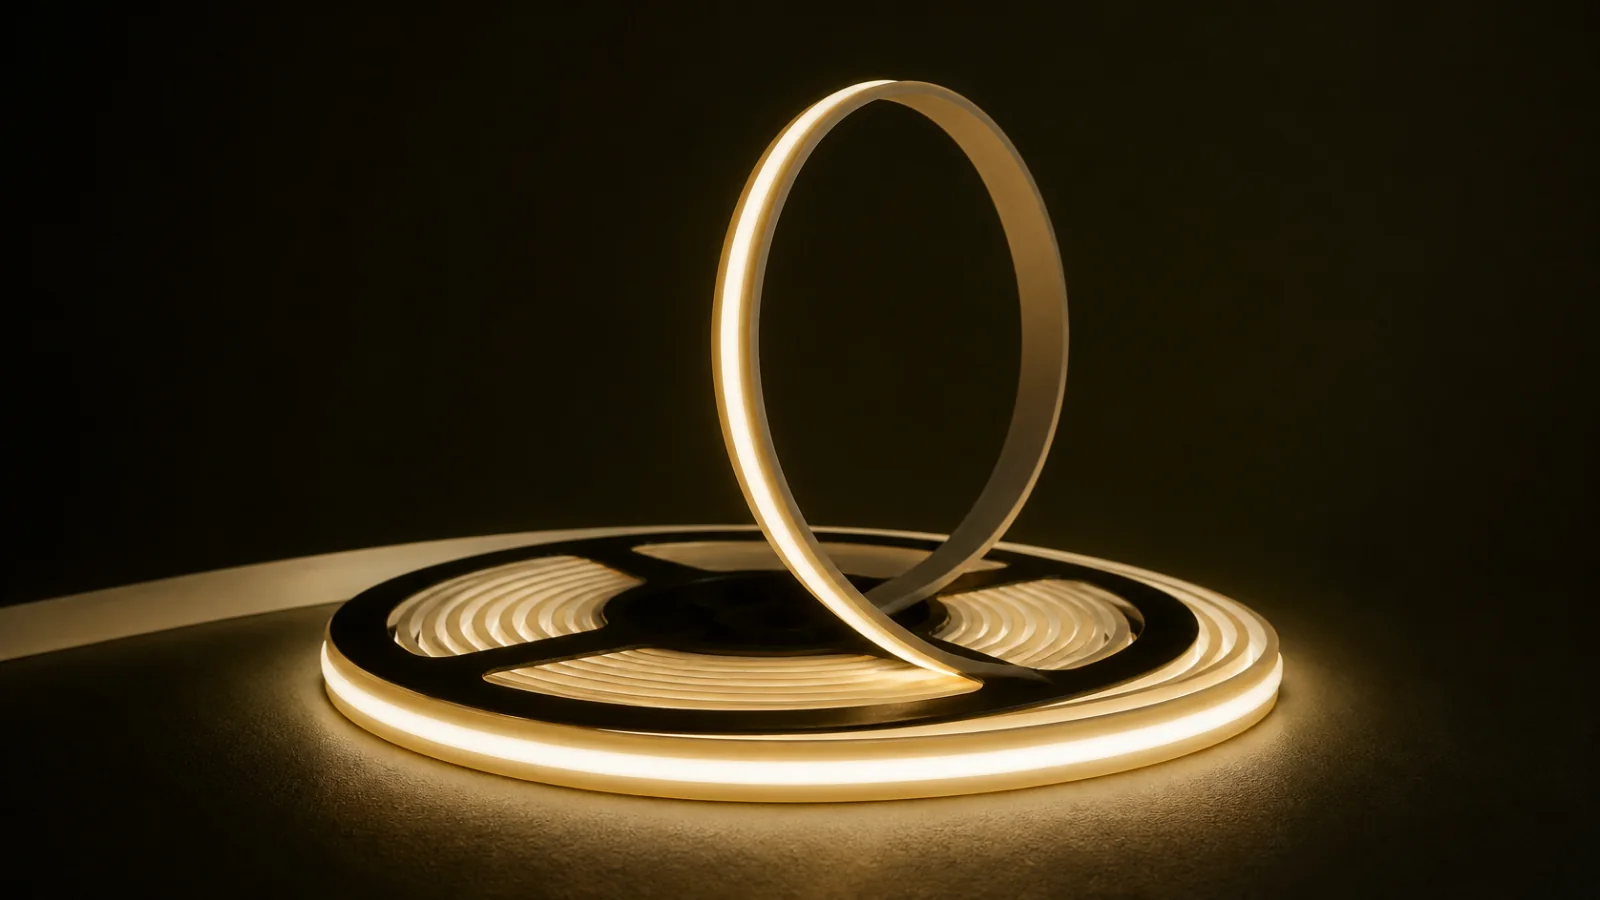
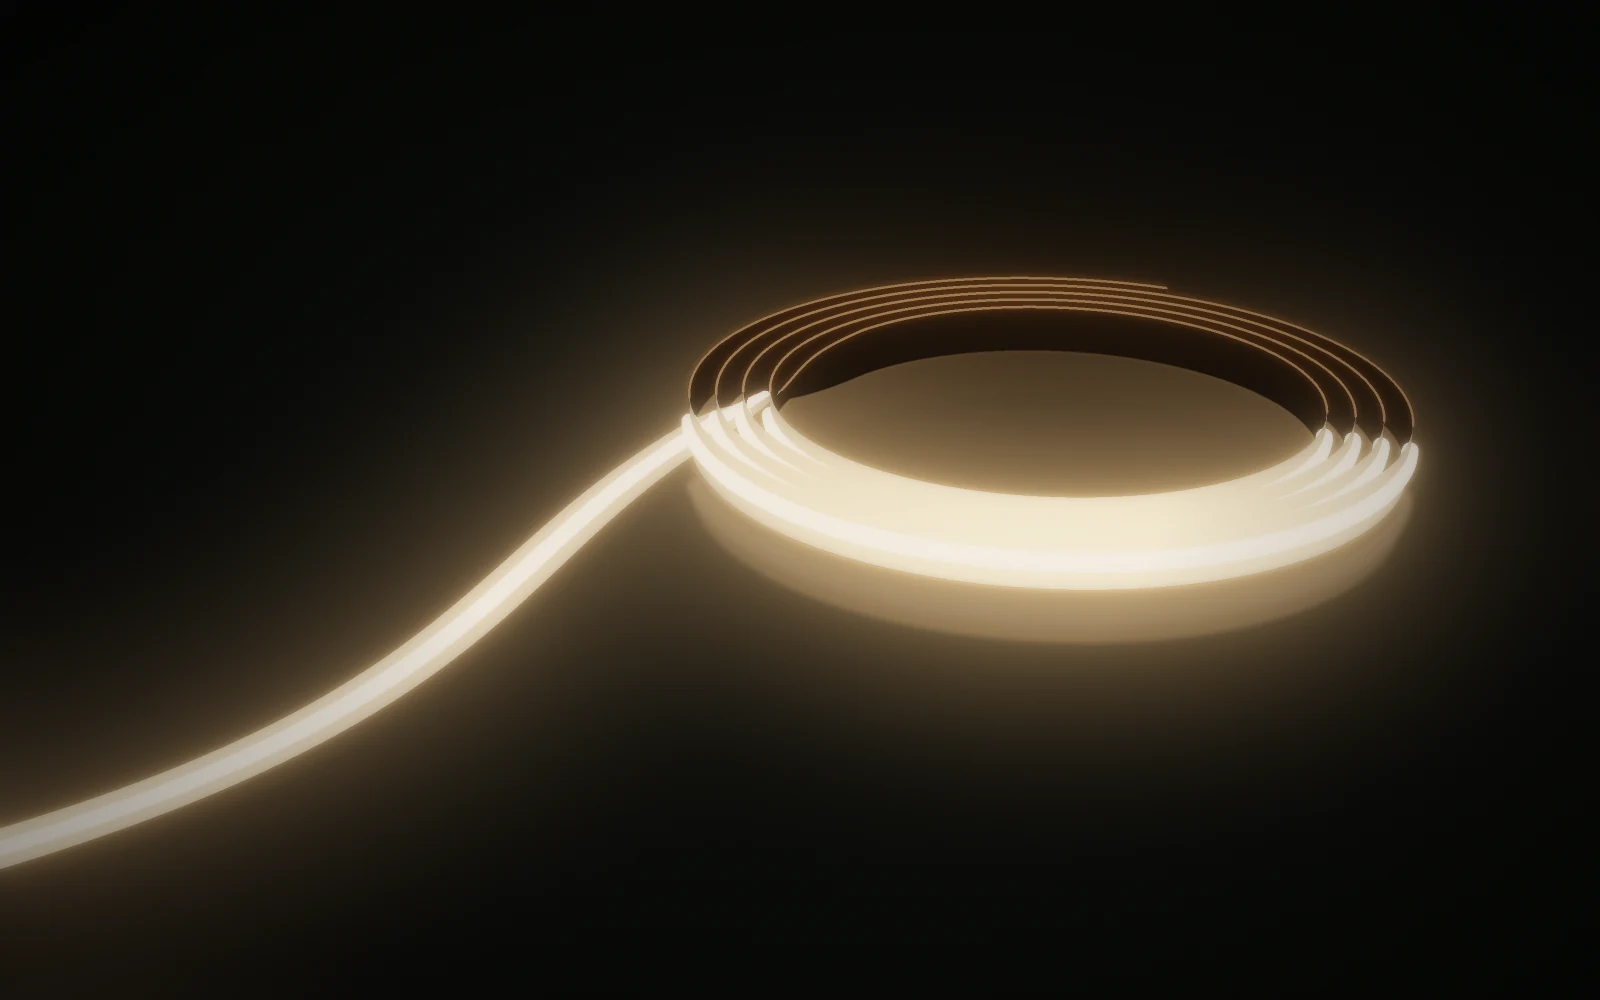
feat: new LED kit image, cleaner shop header, reorder services
Replaces the low-res LED photo with a clean rendered image, removes the
empty glow box in the shop section, and reorders What we do: Lighting,
Security, Electrical & KNX panels, Energy, Smart home systems, Home
Assistant.

Claude-Session: https://claude.ai/code/session_01SfgUpcikzdqsqbzj3Eg53A

diff --git a/style.css b/style.css
@@ -282,6 +282,11 @@ body.is-ready .hero .badge{transform:translateY(-60%)}
 .menu-open .shop-btn{visibility:hidden}
 .shop{position:relative;background:var(--deep);color:var(--text);padding:clamp(80px,10vw,140px) 0 clamp(70px,8vw,120px);overflow:hidden}
 .shop__in{display:block}
+.shop__copy{display:grid;grid-template-columns:minmax(0,1.1fr) minmax(0,1fr);column-gap:clamp(28px,5vw,80px);align-items:end}
+.shop__copy .shop__tag{grid-column:1/-1}
+.shop__copy .shop__title{grid-column:1;grid-row:2/4}
+.shop__copy .shop__lead{grid-column:2;margin-top:0}
+.shop__copy .shop__actions{grid-column:2}
 .shop__tag{color:var(--ember);margin:0 0 22px;display:flex;align-items:center;gap:10px}
 .shop__tag i{width:7px;height:7px;border-radius:50%;background:var(--ember);animation:blink 1.2s steps(2) infinite}
 .shop__title{font-size:clamp(84px,12vw,210px);margin:0}
@@ -289,6 +294,17 @@ body.is-ready .hero .badge{transform:translateY(-60%)}
 .shop__lead{max-width:470px;margin:26px 0 30px;color:var(--muted);font-size:clamp(16px,1.2vw,18px)}
 .shop__actions{display:flex;flex-wrap:wrap;align-items:center;gap:22px}
 .shop__ask{color:var(--text);font-weight:600;text-underline-offset:5px}
+.shop__visual{position:relative;min-height:clamp(300px,34vw,500px);border-radius:24px;overflow:hidden;border:1px solid var(--line);background:radial-gradient(120% 90% at 70% 30%,#232a1a 0%,#0e100b 70%)}
+.led{position:absolute;left:-15%;right:-15%;top:30%;height:12px;transform:rotate(-14deg)}
+.led--2{top:52%;transform:rotate(-14deg) translateX(-6%)}
+.led--3{top:74%;transform:rotate(-14deg) translateX(4%)}
+.led__strip,.led__glow{position:absolute;inset:0;border-radius:99px;background:linear-gradient(90deg,#FFD7A6,#DD7533,#FF9E5E,#F3EAD8,#A7B66F,#FFD7A6,#DD7533);background-size:300% 100%;animation:led 9s linear infinite}
+.led__strip{box-shadow:inset 0 0 0 1px rgba(255,255,255,.25)}
+.led__glow{inset:-26px -10px;filter:blur(30px);opacity:.75}
+.led--2 .led__strip,.led--2 .led__glow{animation-duration:12s;animation-direction:reverse}
+.led--3 .led__strip,.led--3 .led__glow{animation-duration:15s}
+@keyframes led{to{background-position:300% 0}}
+.shop__drop{position:absolute;left:22px;bottom:18px;margin:0;color:var(--muted)}
 .shop__cats{display:grid;grid-template-columns:repeat(3,minmax(0,1fr));gap:14px;margin-top:clamp(36px,4vw,56px)}
 .cat{display:flex;flex-direction:column;gap:6px;padding:24px;border-radius:18px;border:1px solid var(--line);text-decoration:none;color:var(--text);transition:border-color .4s,background .4s,transform .5s var(--ease)}
 .cat__img{display:block;margin:-24px -24px 14px;aspect-ratio:16/10;overflow:hidden;border-radius:17px 17px 0 0;background:#0e100b}
@@ -300,13 +316,14 @@ body.is-ready .hero .badge{transform:translateY(-60%)}
 .cat small{color:var(--ember)}
 .cat b{font-family:var(--giant);font-weight:700;text-transform:uppercase;font-size:clamp(26px,2.2vw,34px);line-height:1;margin-top:6px}
 .cat span{color:var(--muted);font-size:15px}
-@media (max-width:900px){.shop__cats{grid-template-columns:minmax(0,1fr)}}
+@media (max-width:900px){.shop__copy{display:block}.shop__copy .shop__lead{margin-top:26px}.shop__in{grid-template-columns:minmax(0,1fr)}.shop__cats{grid-template-columns:minmax(0,1fr)}}
 html:not([lang=en]) .shop__title{font-size:clamp(70px,10vw,180px)}
 @media (max-width:640px){
   .shop-btn{min-height:40px;padding:0 14px}
   .nav__right{gap:8px}
   .shop__title{font-size:23vw}
   html:not([lang=en]) .shop__title{font-size:16vw}
+  .shop__visual{min-height:250px}
   .shop__actions .btn{width:100%;justify-content:center}
   .shop__ask{width:100%;text-align:center}
   /* phone hero: sharp portrait crop on top, fading into the text */
@@ -314,6 +331,7 @@ html:not([lang=en]) .shop__title{font-size:clamp(70px,10vw,180px)}
   .hero__img img{object-position:50% 40%;-webkit-mask-image:linear-gradient(180deg,#000 62%,transparent 100%);mask-image:linear-gradient(180deg,#000 62%,transparent 100%)}
   .hero__shade{background:linear-gradient(180deg,rgba(21,25,16,.75) 0%,rgba(21,25,16,.15) 22%,rgba(21,25,16,0) 40%),linear-gradient(0deg,rgba(21,25,16,1) 0%,rgba(21,25,16,.6) 42%,rgba(21,25,16,0) 62%)}
 }
+@media (prefers-reduced-motion:reduce){.led__strip,.led__glow{animation:none}}
 
 /* background trials — open index.html?bg=white / ?bg=blue / ?bg=black */
 html[data-bg=white]{--bg:#F3F0E8;--bg-2:#E8E3D6;--text:#1A1E12;--muted:#5C6250;--line:rgba(26,30,18,.12);--line-2:rgba(26,30,18,.24);--nav-bg:rgba(243,240,232,.86);--btn-bg:rgba(243,240,232,.6);--on:#F3F0E8}

diff --git a/index.html b/index.html
@@ -141,28 +141,28 @@
   </div>
   <div class="cards" id="svTrack">
     <article class="card card--img">
-      <img src="img/home-lit-sm.webp" alt="3D floor plan of a smart home with every room lit" loading="lazy">
-      <div><span class="mono">01</span><h3>Smart home systems</h3><p>Every light, blind, thermostat and sensor in one system you control from the wall, your phone or your voice.</p></div>
-    </article>
-    <article class="card card--img">
-      <img src="img/feat-panel-sm.webp" alt="KNX panel" loading="lazy">
-      <div><span class="mono">02</span><h3>Electrical &amp; KNX panels</h3><p>Clean, documented panels and wiring, planned with your architect before the concrete and built to last decades.</p></div>
-    </article>
-    <article class="card card--img card--ha">
-      <img src="img/card-ha.webp" alt="Home Assistant floor plan dashboard with lit rooms" loading="lazy">
-      <div><span class="mono">03</span><h3>Home Assistant &amp; integrations</h3><p>One app for everything, running locally in your home. We connect devices from different makers and program the automations.</p></div>
-    </article>
-    <article class="card card--img">
       <img src="img/card-lighting.webp" alt="Linear LED lighting washing a ribbed facade at night" loading="lazy">
-      <div><span class="mono">04</span><h3>Lighting</h3><p>Scenes and dimming in every room, from keypad, phone or voice.</p></div>
+      <div><span class="mono">01</span><h3>Lighting</h3><p>Scenes and dimming in every room, from keypad, phone or voice.</p></div>
     </article>
     <article class="card card--img">
       <img src="img/card-security.webp" alt="DoorBird video intercom with camera and access keypad" loading="lazy">
-      <div><span class="mono">05</span><h3>Security</h3><p>Cameras, alarm and access control, inside the same system.</p></div>
+      <div><span class="mono">02</span><h3>Security</h3><p>Cameras, alarm and access control, inside the same system.</p></div>
+    </article>
+    <article class="card card--img">
+      <img src="img/feat-panel-sm.webp" alt="KNX panel" loading="lazy">
+      <div><span class="mono">03</span><h3>Electrical &amp; KNX panels</h3><p>Clean, documented panels and wiring, planned with your architect before the concrete and built to last decades.</p></div>
     </article>
     <article class="card card--img">
       <img src="img/card-energy.webp" alt="Main distribution panel with breaker and energy meters" loading="lazy">
-      <div><span class="mono">06</span><h3>Energy</h3><p>Solar, storage and consumption you can actually see and control.</p></div>
+      <div><span class="mono">04</span><h3>Energy</h3><p>Solar, storage and consumption you can actually see and control.</p></div>
+    </article>
+    <article class="card card--img">
+      <img src="img/home-lit-sm.webp" alt="3D floor plan of a smart home with every room lit" loading="lazy">
+      <div><span class="mono">05</span><h3>Smart home systems</h3><p>Every light, blind, thermostat and sensor in one system you control from the wall, your phone or your voice.</p></div>
+    </article>
+    <article class="card card--img card--ha">
+      <img src="img/card-ha.webp" alt="Home Assistant floor plan dashboard with lit rooms" loading="lazy">
+      <div><span class="mono">06</span><h3>Home Assistant &amp; integrations</h3><p>One app for everything, running locally in your home. We connect devices from different makers and program the automations.</p></div>
     </article>
   </div>
 </section>
